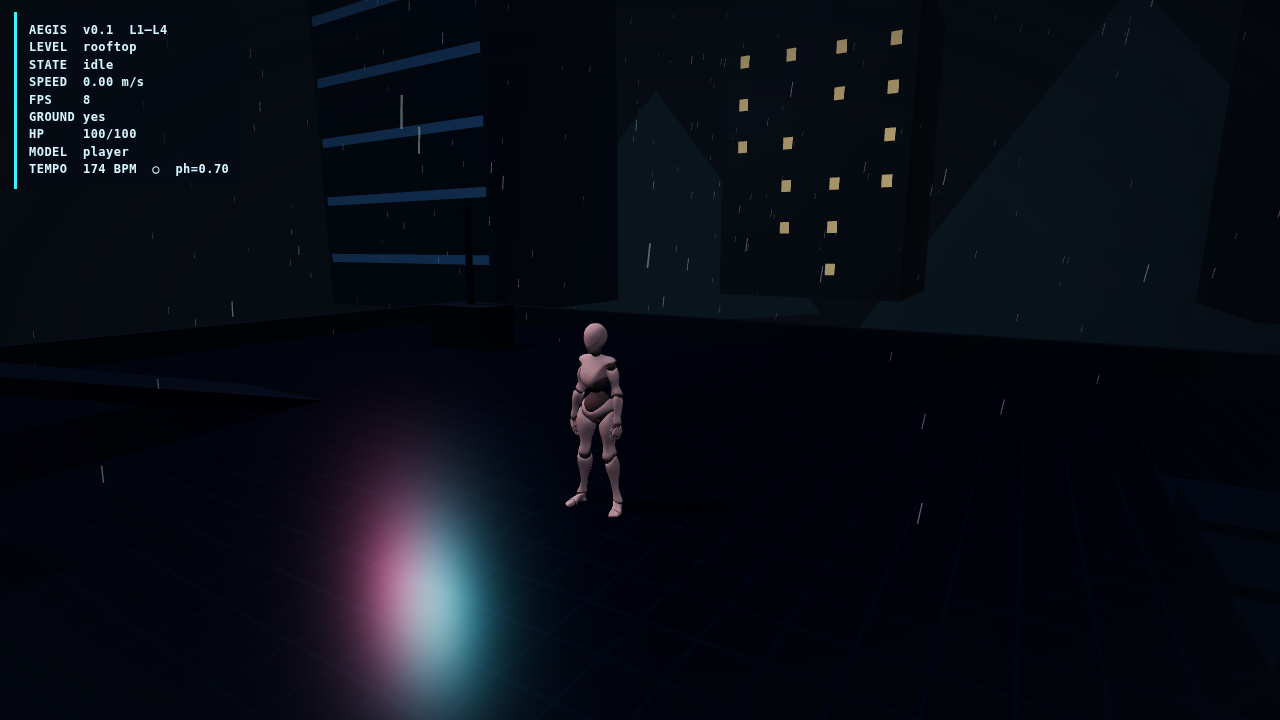
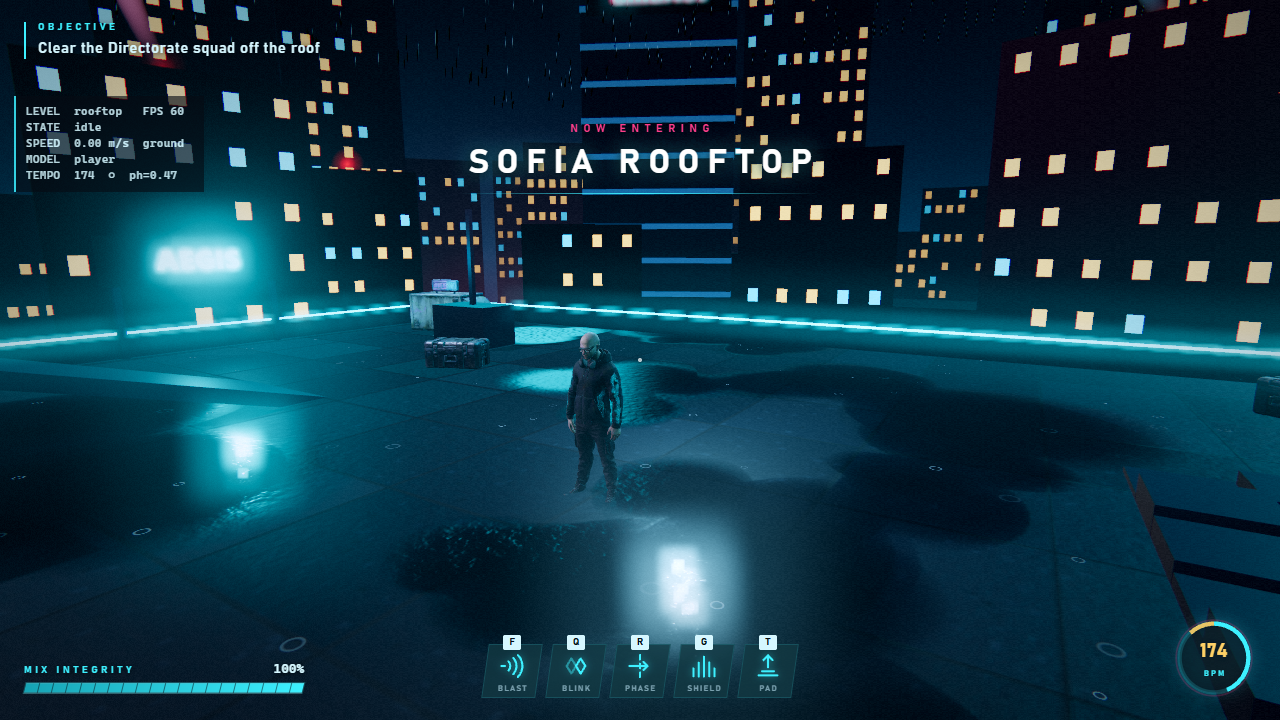
Add dodge onboarding, title idle orbit, death fade-in, smoke-test coverage and docs

diff --git a/src/main.js b/src/main.js
@@ -220,6 +220,8 @@ async function boot() {
   };
   let hitstopUntil = 0;
   window.game = game;
+  if (post.setEnabled === undefined) post.setEnabled = (on) => { post.enabled = !!on; };
+  if (post.enabled !== false) document.getElementById('vign')?.remove(); // the post stack has its own vignette
 
   // One event drives all the hit feel: freeze frames, camera shake and kick (sfx, vfx and post listen too).
   const HS = tuning.combat?.hitstop || {};
@@ -323,6 +325,9 @@ async function boot() {
     if (DEBUG && keyJust('Digit3')) goto('chamber');
     if (DEBUG && keyJust('Digit4')) goto('arena');
 
+    // behind the title the world idles: no enemy AI, a slow orbit around Kael
+    const onTitle = hud.screens?.mode === 'title';
+    if (onTitle) orbit.yaw += dt * (tuning.camera?.titleOrbit ?? 0.07);
     pawn.update(dt, orbit.yaw, orbit.pitch);
     orbit.setSpeed(Math.hypot(player.velocity.x, player.velocity.z));
     orbit.update(dt, player.position, physics);
@@ -334,8 +339,7 @@ async function boot() {
     blink.update(dt);
     c3.update(dt);
     current?.update?.(dt, player.position, bus);
-    flow.update(dt, current);
-    encounters.update(dt);
+    if (!onTitle) { flow.update(dt, current); encounters.update(dt); }
     fx.update(dt);
 
     if (portalLock > 0) portalLock -= dt;

diff --git a/index.html b/index.html
@@ -176,7 +176,9 @@ kbd{display:inline-block;min-width:20px;text-align:center;background:var(--txt);
 .panel h2{margin:0 0 34px;font:700 54px/1 var(--f);letter-spacing:.3em;text-indent:.3em;color:#fff;text-shadow:0 0 28px #3df0ff66;white-space:nowrap}
 .panel .p-list{display:grid;grid-template-columns:auto auto;gap:9px 22px;justify-content:center;text-align:left;font:500 13px/1.5 var(--f);color:var(--txt);margin-bottom:28px}
 .panel .p-list span:nth-child(odd){text-align:right}
-#death{background:radial-gradient(ellipse at center,rgba(40,0,14,.55),rgba(3,2,6,.92));pointer-events:none}
+#death{background:radial-gradient(ellipse at center,rgba(40,0,14,.55),rgba(3,2,6,.92));pointer-events:none;animation:deathIn 1.5s ease-out both}
+@keyframes deathIn{0%,38%{opacity:0}100%{opacity:1}}
+#death .p-bar i{animation-delay:.4s!important}
 #death h2{color:var(--mag);margin-bottom:16px;text-shadow:3px 0 0 #3df0ff66,-3px 0 0 #ff3d8a,0 0 30px #ff3d8a88;animation:glitch 1.4s steps(2) infinite}
 #death .p-sub{font:500 13px var(--f);letter-spacing:.24em;color:var(--dim)}
 #death .p-bar{width:260px;height:2px;margin:22px auto 0;background:#ffffff18;overflow:hidden}

diff --git a/src/ui/tips.js b/src/ui/tips.js
@@ -24,6 +24,7 @@ export function createTips({ root, strings, bus, enabled = true }) {
     { id: 'sprint', when: () => true },
     { id: 'jump', when: () => true },
     { id: 'melee', when: () => enemyNear(14) },
+    { id: 'dodge', when: () => did.shotAt || did.hurt },
     { id: 'onBeat', when: () => did.melee && enemyNear(16) },
     { id: 'blast', when: () => enemyNear(10) && cd('blast') <= 0 },
     { id: 'blink', when: () => did.hurt && cd('blink') <= 0 },
@@ -46,6 +47,7 @@ export function createTips({ root, strings, bus, enabled = true }) {
   on('sidechain', (p = {}) => { if (p.source === 'blast') did.blast = true; });
   on('playerDamaged', () => { did.hurt = true; });
   on('enemyShot', () => { did.shotAt = true; });
+  on('playerAction', (p = {}) => { if (p.name === 'dodge') did.dodge = true; });
   on('blink', () => { did.blink = true; });
   on('phaseSkip', () => { did.phaseSkip = true; });
   on('waveShield', () => { did.waveShield = true; });

diff --git a/tests/test_l1_l4.py b/tests/test_l1_l4.py
@@ -8,7 +8,8 @@ from playwright.async_api import async_playwright
 ROOT = Path(__file__).resolve().parents[1]
 SHOTS = ROOT / "shots"
 SHOTS.mkdir(exist_ok=True)
-URL = "http://127.0.0.1:8765/index.html?shots=1&debug=1"
+# noreflect/nopost keep the software-GL run fast; noai keeps soldiers from interrupting the movement checks
+URL = "http://127.0.0.1:8765/index.html?shots=1&debug=1&noai=1&noreflect=1" + ("" if os.environ.get("AEGIS_GPU") else "&nopost=1")
 
 
 def ensure_server(port=8765):
@@ -27,10 +28,9 @@ async def main():
     ensure_server()
     async with async_playwright() as p:
         # AEGIS_CHROME=1 uses the installed Chrome instead of Playwright's bundled Chromium
-        browser = await p.chromium.launch(channel="chrome" if os.environ.get("AEGIS_CHROME") else None, args=[
-            "--use-gl=angle", "--use-angle=swiftshader",
-            "--enable-unsafe-swiftshader", "--ignore-gpu-blocklist",
-        ])
+        # AEGIS_GPU=1 renders on the real GPU (D3D11) instead of swiftshader
+        gl = ["--use-angle=d3d11", "--enable-gpu"] if os.environ.get("AEGIS_GPU") else ["--use-gl=angle", "--use-angle=swiftshader", "--enable-unsafe-swiftshader"]
+        browser = await p.chromium.launch(channel="chrome" if os.environ.get("AEGIS_CHROME") else None, args=gl + ["--ignore-gpu-blocklist"])
         page = await browser.new_page(viewport={"width": 1280, "height": 720})
         page.on("pageerror", lambda e: errs.append("PAGEERROR: " + str(e)))
         def on_console(m):
@@ -103,13 +103,22 @@ async def main():
         print("AFTER_VAULT", json.dumps(after))
         await page.screenshot(path=str(SHOTS / "03_vault.png"))
 
-        await page.evaluate("() => { AG.tp(3.2, 3.6); AG.face(0); AG.attack(); }")
-        await page.wait_for_timeout(400)
-        melee = await page.evaluate("() => AG.state()")
-        print("MELEE", json.dumps(melee))
-        await page.evaluate("() => AG.blast()")
-        await page.wait_for_timeout(400)
-        print("BLAST", await page.evaluate("() => AG.state()"))
+        # combat + dodge: sample the state every frame in the page so slow frames cannot hide a state
+        seen = await page.evaluate("""async () => {
+          const seen = new Set();
+          const watch = (ms) => new Promise((res) => { const t0 = performance.now(); (function f() { seen.add(AG.player.state); if (performance.now() - t0 < ms) requestAnimationFrame(f); else res(); })(); });
+          AG.tp(3.2, 3.6); AG.face(0); AG.clearInput();
+          await watch(300);
+          AG.attack(); await watch(200); AG.attack(); await watch(250); AG.attack(); await watch(900);
+          AG.blast(); await watch(900);
+          AG.dodge(); await watch(700);
+          AG.setInput({forward:1}); await watch(300); AG.dodge(); await watch(700); AG.clearInput();
+          return [...seen];
+        }""")
+        print("STATES", json.dumps(seen))
+        missing = [s for s in ("melee1", "melee2", "melee3", "blast", "dodge") if s not in seen]
+        clips = await page.evaluate("() => ['jump','fall','land','landRoll','vault','melee1','melee2','melee3','blast','hit','death','dodge','dodgeBack','castGround','castThrow','blinkIn','dash','guard'].filter((n) => !AG.player.loco.hasClip(n))")
+        print("MISSING_CLIPS", json.dumps(clips))
 
         print("ERRORS", len(errs))
         for e in errs[:25]:
@@ -127,6 +136,15 @@ async def main():
             print("WARN jump may not have left the ground:", midair)
         if fatal:
             print("FAIL console/page errors")
+            return 1
+        if missing:
+            print("FAIL combat states never seen:", missing)
+            return 1
+        if clips:
+            print("FAIL animation clips missing:", clips)
+            return 1
+        if after["pos"][2] < 7.4:
+            print("FAIL vault did not clear the crate:", after["pos"])
             return 1
         print("OK")
         return 0

diff --git a/docs/TASKS.md b/docs/TASKS.md
@@ -61,8 +61,26 @@ bus.emit('enemyKilled', {id, kind, pos})                 // death anim, resonanc
 bus.emit('phaseSkip', {from, to})                        // C3 → A2 phase-skip streak
 bus.emit('waveShield', {origin, dir, duration})          // C3 → A2 wave-shield VFX
 bus.emit('launchpad', {origin, burst?})                  // C3 → A2 launchpad pulse / burst
+// added with the vertical-slice pass:
+bus.emit('impact', {pos, strength, kind, onBeat, id?, release?, from?}) // kind: melee|blast|kill|hurt|land. One event for all
+                                                         // hit feel: main.js hit-stop + camera shake, post pulse, sfx
+bus.emit('playerAction', {name, index?, onBeat?, strength?}) // jump|land|vault|dodge|swing|blastCharge|death|respawn (sfx, tips)
+bus.emit('playerDied', {pos})                            // death screen; player respawns at the last safe-ground checkpoint
+bus.emit('playerRespawned', {pos, fall?})
+bus.emit('comboChanged', {count, onBeatStreak})          // landed-hit streak for the HUD
+bus.emit('enemyTelegraph', {id, kind, pos, time})        // src/ai, just before a dangerous attack (HUD warning, sfx)
+bus.emit('objective', {level, key, text})                // encounter-flow → HUD objective line
+bus.emit('puzzleState', {level, stage, stages, phase, progress, length, type}) // chamber: waiting|listen|answer|chord|solved
+bus.emit('puzzleNote', {level, pad, note, by, ok, onBeat, index})
+bus.emit('puzzleFail', {level, stage, reason})           // wrongPad|offBeat|tooSlow
+bus.emit('puzzleSolved', {level})                        // unlocks the chamber → arena gate
+// levelState also fires {level, phase:'clear'} when a level's gate unlocks
 ```
 Note on the labels above: they predate the final owner split. Current owners: `beat` is L6, `sidechain` comes from L4/L7 and `src/ai/director.js` ducks enemies on it, `noise` is consumed by C1 hearing, `blink` is emitted by L8 and C1 makes enemies shoot the ghost, `callout` is emitted by C1 squads for L5.
 Player API exposed on `game.player`: `position, velocity, isGrounded, hp, state, applyImpulse(v), takeDamage(n, src)`.
+`player._iframe > 0` (dodge, respawn, phase-skip) means untouchable: `takeDamage` returns 0. `player.state` also reports `dodge`, `roll`, `skid`, `vault`, `dead`.
+
+## Animation
+Humanoid clips come from two places: the donor rig's own loops (idle / walk / run) and the procedural library in `src/anim/clips.js`, authored as keyframed poses on canonical channels (`src/anim/pose-rig.js`) and baked onto the donor role flagged `procClips` in the manifest. Both are retargeted to every role with `animSource`, so a new rig only needs a bone map. Add a clip by adding a definition to `CLIP_DEFS`; its name is its logical name.
 Enemy API: `id, position, hp, state, duck(sec), takeDamage(n, src)`.
 On-beat rule: an action is on-beat if `|phase| < 0.12` or `> 0.88`; damage ×1.5 and a shockwave.

diff --git a/NOTES.md b/NOTES.md
@@ -16,14 +16,19 @@ Playable vertical-slice skeleton: third-person controller, locomotion, foot IK, 
 
 | Input | Action |
 |---|---|
-| WASD | Move (camera-relative). Full stick = run |
+| WASD | Move (camera-relative) |
 | Shift | Sprint |
-| Ctrl / C | Walk |
-| Space | Jump, or vault if a waist-high crate/ledge is in front |
+| Ctrl / X | Walk |
+| Space | Jump (hold for height), or vault a waist-high crate / ledge in front |
+| C / RMB / Left Alt | Dodge with i-frames (longer on the beat); backward hop with no direction held |
 | Mouse (click to lock) | Look |
-| LMB / J | Melee combo |
+| LMB / J | Melee chain: cross, hook, roundhouse. Snaps to the nearest target in front |
 | F / K | Sub-Bass Blast |
+| Q / R / G / T | Blink / Phase-Skip / Wave-Shield / Launchpad |
+| Esc | Pause |
 | 1–4 (`?debug=1`) | Rooftop / Cradle / chamber / arena |
+
+URL flags: `?debug=1` debug panel + level keys, `?nopost=1` plain render, `?noreflect=1` no planar reflections, `?noai=1` no enemies, `?shots=1` headless test mode.
 
 ## How to run / test
 
@@ -32,6 +37,7 @@ cd /path/to/Aegis-Echoes-of-the-Grid
 python3 -m http.server 8080
 # open http://127.0.0.1:8080/index.html
 # headless: python3 tests/test_l1_l4.py  (server on 8765, ?shots=1)
+# on a machine with a GPU and Chrome: AEGIS_CHROME=1 AEGIS_GPU=1 python tests/test_l1_l4.py
 ```
 
 Headless result (Playwright + Chromium swiftshader): **no console/page errors**, Xbot loaded, bone map bound (`mixamorigHips` etc.), scripted **idle → sprint (7.5 m/s) → jump → vault** (landed past the crate at z≈8.1). Melee state entered. Screenshots:
